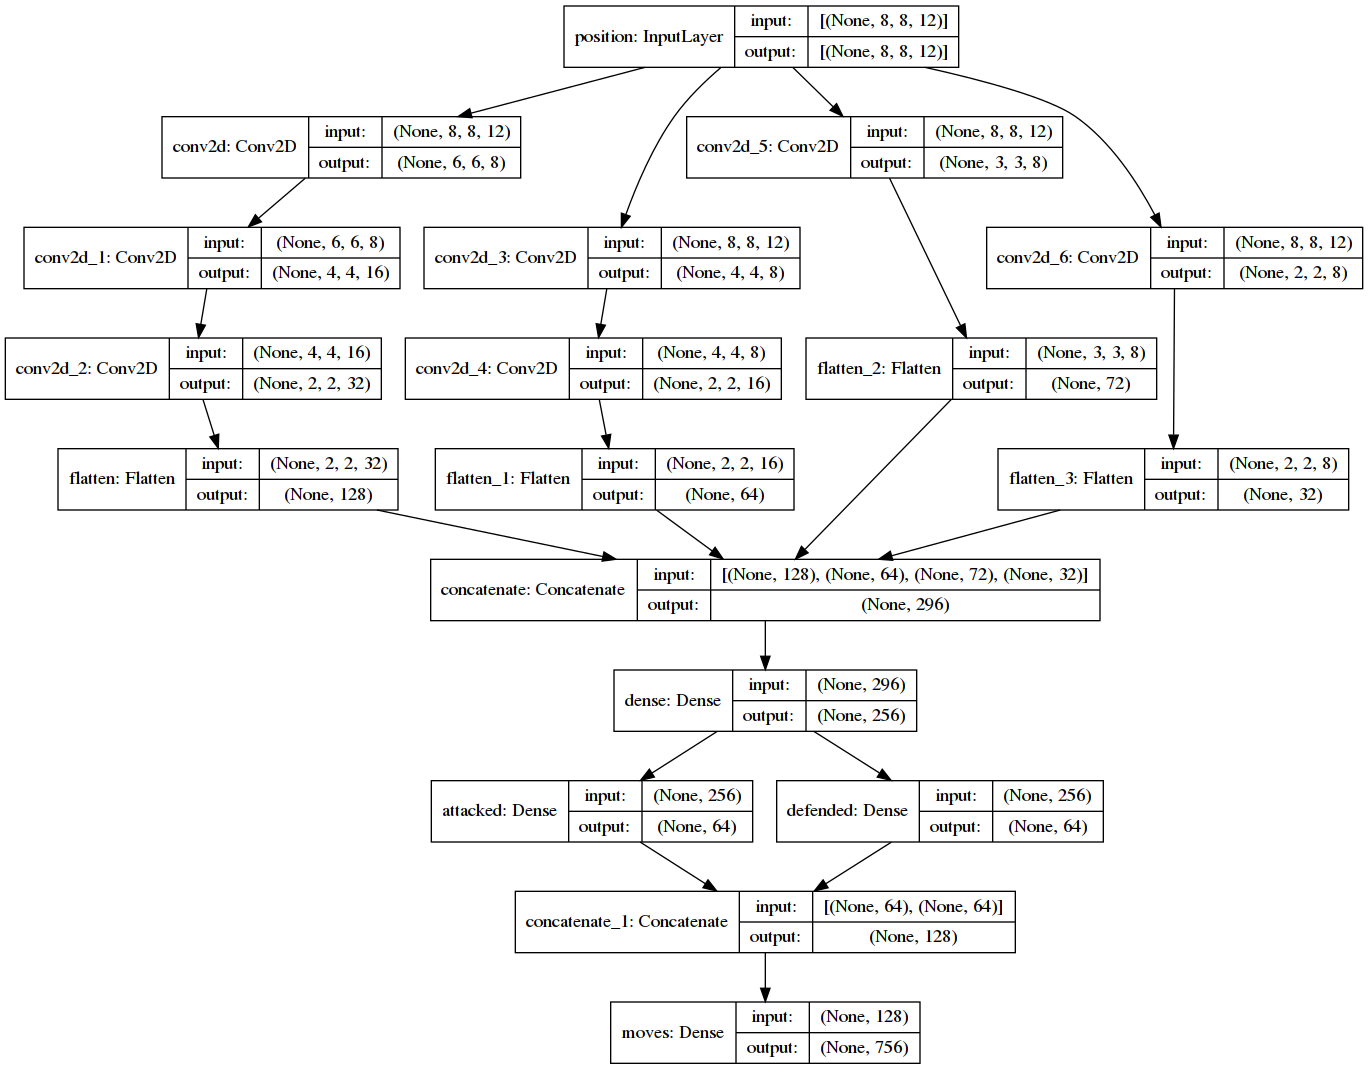
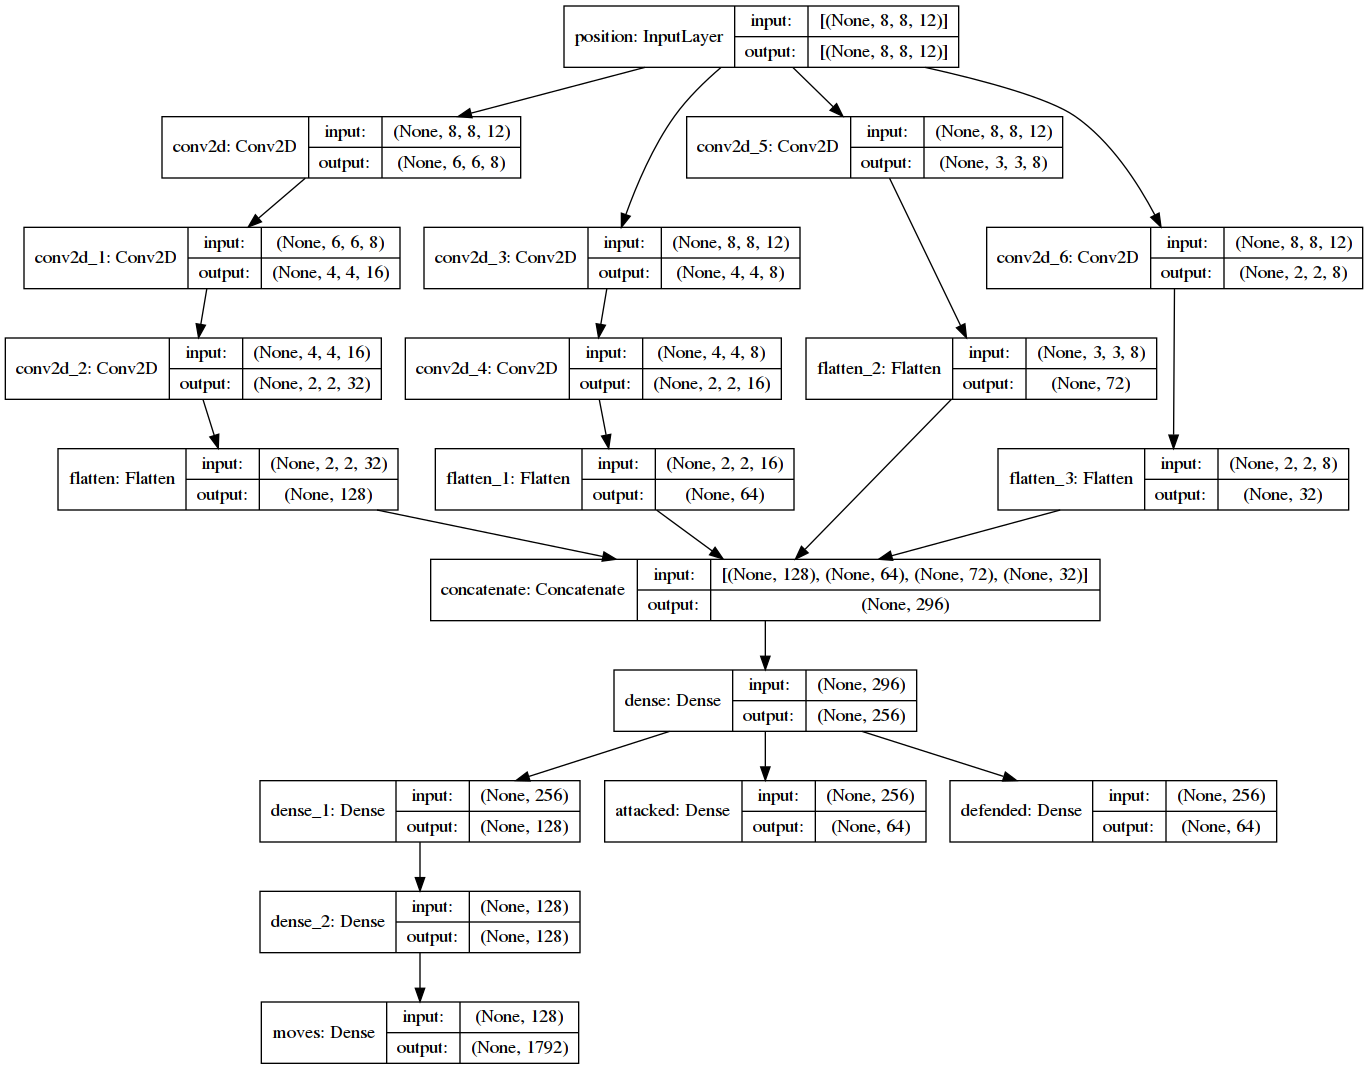
it's actually 1792 combinations there

Changed region(s): [[0.1842, 0.71, 0.9211, 0.8952], [0.1842, 0.9261, 0.4298, 1.0], [0.4605, 0.9261, 0.6754, 1.0]]

diff --git a/chessnn/__init__.py b/chessnn/__init__.py
@@ -8,7 +8,7 @@ from collections import Counter
 import chess
 import numpy as np
 import xxhash
-from chess import pgn
+from chess import pgn, SquareSet, SQUARES
 from matplotlib import pyplot
 
 mpl_logger = logging.getLogger('matplotlib')
@@ -170,22 +170,33 @@ class BoardOptim(chess.Board):
 
         return pos
 
-    def get_attacked(self):
-        """
-        Enemy squares that we do attack
-        """
+    def get_attacked_defended(self):
+        attacked = np.full(64, 0.0)
+        defended = np.full(64, 0.0)
+
         our = self.occupied_co[self.turn]
         their = self.occupied_co[not self.turn]
 
-        attacked = np.full(64, 0.0)
-        for move in self.generate_pseudo_legal_moves(our, their):
-            attacked[move.to_square] = 1.0
+        for square in SquareSet(our):
+            attacks = self.attacks_mask(square)
+            for their_attacked in SquareSet(attacks & their):
+                attacked[their_attacked] = 1.0
 
-        return attacked
+            for our_defended in SquareSet(attacks & our):
+                defended[our_defended] = 1.0
 
-    def get_defended(self):
-        defended = np.full(64, 0.0)
-        return defended
+        for square in SquareSet(their):
+            attacks = self.attacks_mask(square)
+            for their_defended in SquareSet(attacks & their):
+                defended[their_defended] = 1.0
+
+            for our_attacked in SquareSet(attacks & our):
+                attacked[our_attacked] = 1.0
+
+        a = np.reshape(attacked, (8, 8))
+        d = np.reshape(defended, (8, 8))
+
+        return attacked, defended
 
     def _plot(board, matrix, position, fig, caption):
         """
@@ -304,18 +315,20 @@ def is_debug():
 
 def _possible_moves():
     res = set()
-    for f in range(64):
-        for t in chess.SquareSet(chess.BB_RANK_ATTACKS[f][chess.BB_RANK_MASKS[f]]):
+    for f in SQUARES:
+        for t in chess.SquareSet(chess.BB_RANK_ATTACKS[f][0]):
             res.add((f, t))
 
-        for t in chess.SquareSet(chess.BB_FILE_ATTACKS[f][chess.BB_FILE_MASKS[f]]):
+        for t in chess.SquareSet(chess.BB_FILE_ATTACKS[f][0]):
             res.add((f, t))
 
-        for t in chess.SquareSet(chess.BB_DIAG_ATTACKS[f][chess.BB_DIAG_MASKS[f]]):
+        for t in chess.SquareSet(chess.BB_DIAG_ATTACKS[f][0]):
             res.add((f, t))
 
         for t in chess.SquareSet(chess.BB_KNIGHT_ATTACKS[f]):
             res.add((f, t))
+
+    assert (10, 26) in res
 
     return list(sorted(res))
 

diff --git a/chessnn/nn.py b/chessnn/nn.py
@@ -100,12 +100,14 @@ class NNChess(NN):
         out_defended = layers.Dense(64, activation=activ_out, name="defended")(main)
 
         conc = layers.concatenate([out_attacked, out_defended])
-        out_moves = layers.Dense(len(MOVES_MAP), activation=activ_out, name="moves")(conc)
+        main = layers.Dense(128, activation=activ_hidden)(main)
+        main = layers.Dense(128, activation=activ_hidden)(main)
+        out_moves = layers.Dense(len(MOVES_MAP), activation=activ_out, name="moves")(main)
 
         model = models.Model(inputs=[position], outputs=[out_moves, out_attacked, out_defended])
         model.compile(optimizer=optimizer,
                       loss="categorical_crossentropy",
-                      loss_weights=[1.0, 0.5, 0.75],
+                      loss_weights=[1.0, 0.5, 0.5],
                       metrics=['categorical_accuracy'])
         return model
 

diff --git a/training.py b/training.py
@@ -127,8 +127,8 @@ def play_with_score(pwhite, pblack):
         wmoves = pwhite.get_moves()
         bmoves = pblack.get_moves()
         good_moves = _fill_sets(result, wmoves, bmoves, losing, winning, draw)
-        if good_moves:
-            nn.train(good_moves, 1)
+        #if good_moves:
+        #    nn.train(good_moves, 1)
         rnd += 1
 
 
@@ -186,7 +186,7 @@ if __name__ == "__main__":
     nn = NNChess("nn.hdf5")
     white = NNPLayer("Lisa", WHITE, nn)
     black = NNPLayer("Karen", BLACK, nn)
-    # black = Stockfish(BLACK)
+    black = Stockfish(BLACK)
 
     try:
         play_with_score(white, black)

diff --git a/chessnn/player.py b/chessnn/player.py
@@ -48,12 +48,7 @@ class PlayerBase(object):
         moverec.from_round = in_round
         moverec.eval = geval
 
-        if self.color == chess.WHITE:
-            moverec.attacked = self.board.get_attacked()
-            moverec.defended = self.board.get_defended()
-        else:
-            moverec.attacked = bflip.get_attacked()
-            moverec.defended = bflip.get_defended()
+        moverec.attacked, moverec.defended = bflip.get_attacked_defended()
 
         return moverec
 
